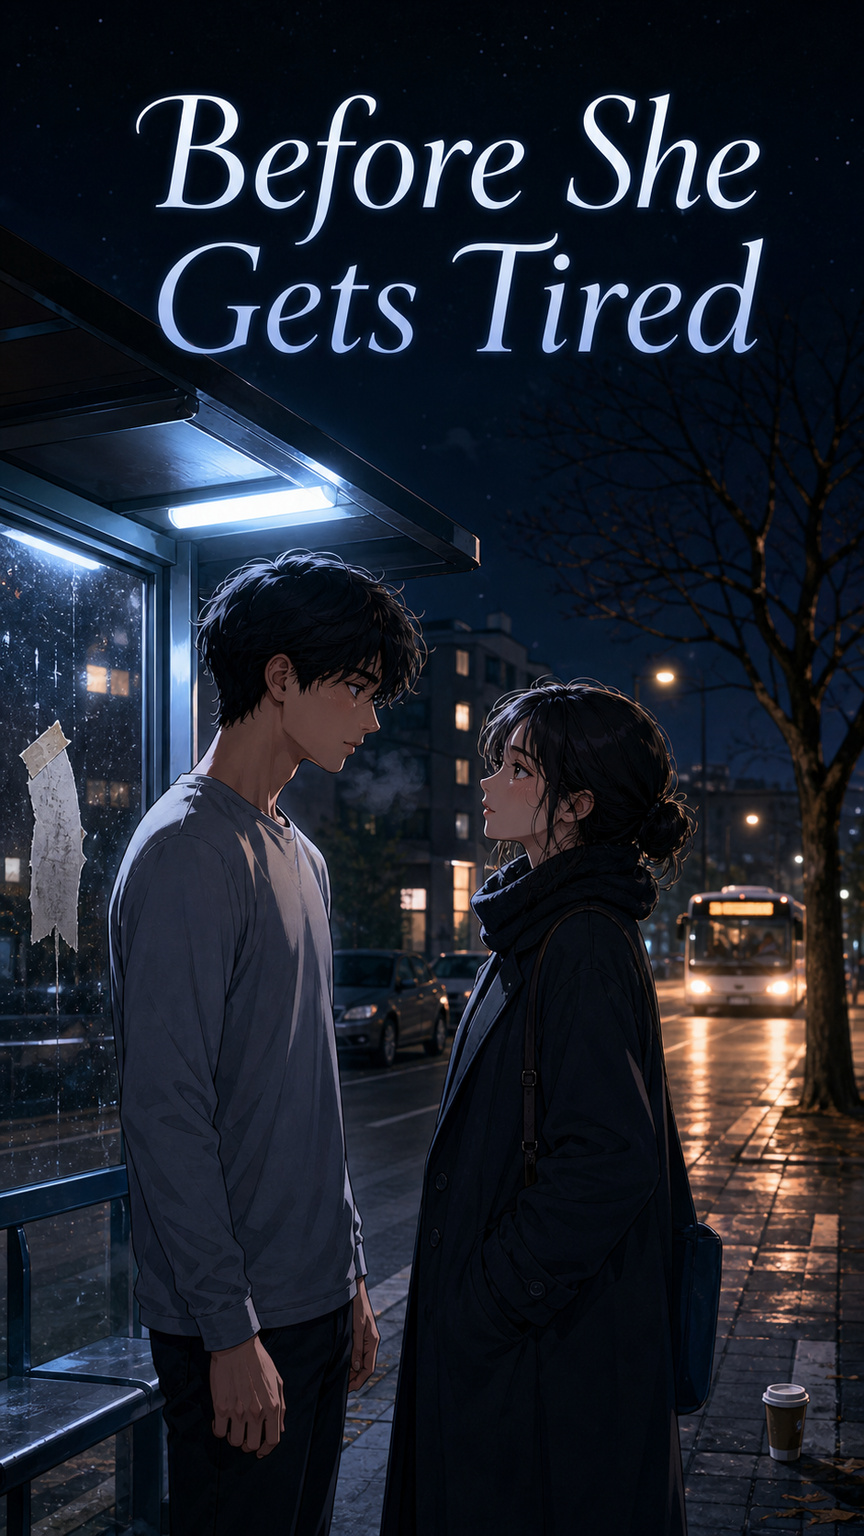
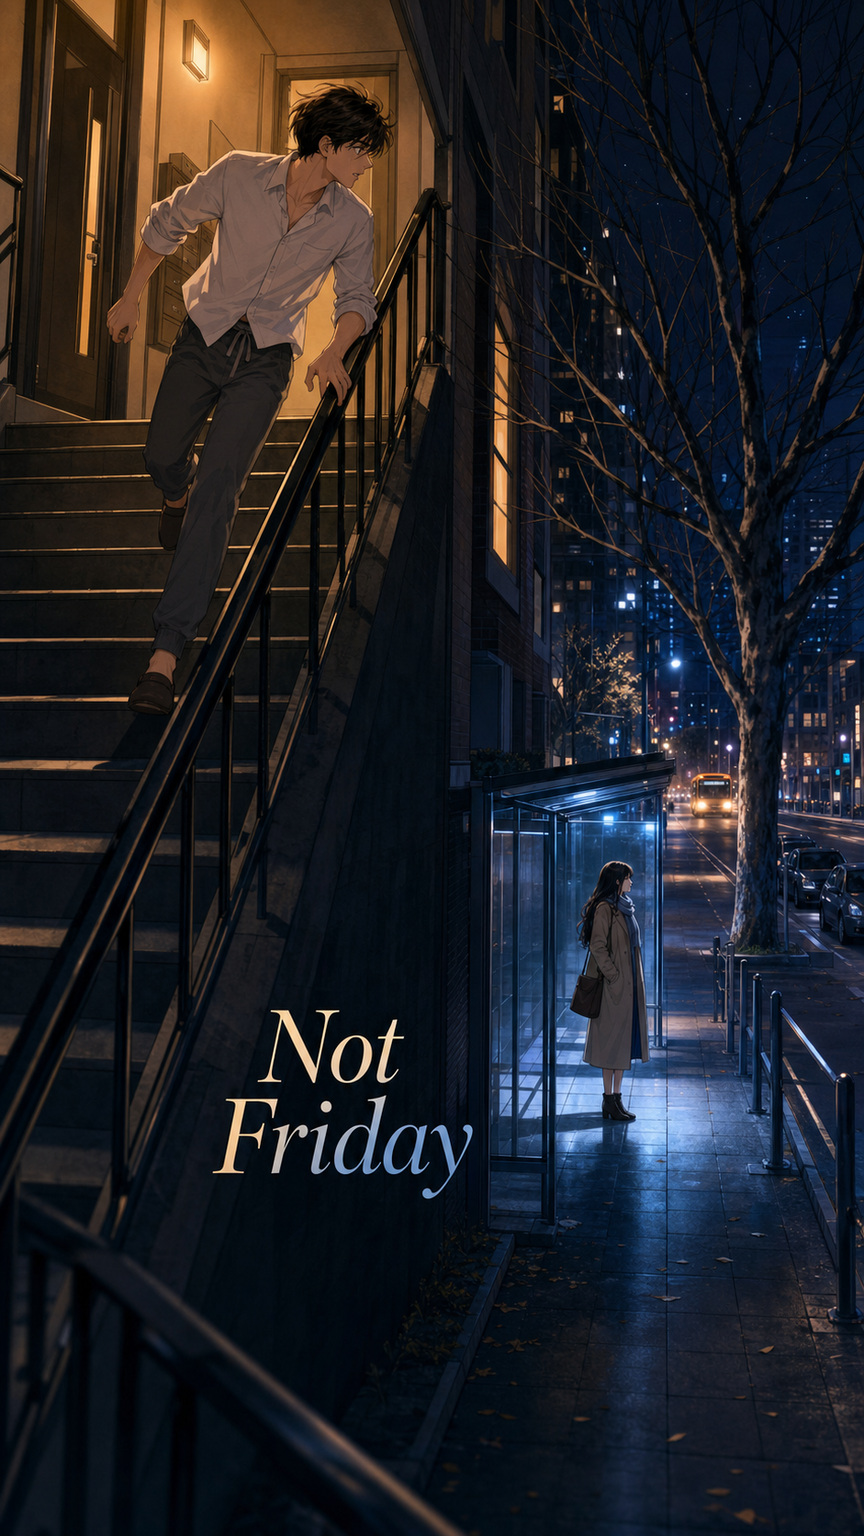
Retitle story as Not Friday

diff --git a/stories/before-she-gets-tired/outline.md b/stories/before-she-gets-tired/outline.md
@@ -2,7 +2,7 @@
 
 ## Story
 
-- Proposed reader-facing title: *Before She Gets Tired*.
+- Proposed reader-facing title: *Not Friday*.
 - Premise and central promise: After another weekly game night, Omar corners his close friend Kian with the prompt exchange and insists that Yasmin likes him just as the previous four women did before Kian waited them out. Kian follows Yasmin to an ordinary bus shelter intending to perform one brave ask and secure a yes. His first attempt merely renames their existing ambiguous outings, and Yasmin refuses to keep translating hints into commitments for him. Resolve the prompt when Kian stops treating Omar's confidence, past signals, and Yasmin's patience as guarantees; asks Yasmin plainly for one specific date; clarifies rather than retreats when she cannot make the proposed night; and receives a freely given yes to another time. The romantic success is real, but it rests on accepting that a clear question also permits a clear no.
 - Intended reader experience: Begin with fast, affectionate ribbing and the guilty recognition that Omar's ridiculous certainty has evidence behind it. Let Kian's walk downstairs turn comic bravado into intimate discomfort, then make the bus-shelter exchange warm, exacting, and slightly embarrassing rather than punitive. Readers should root for the yes while understanding why Yasmin is tired of the arrangement, and feel the deeper relief when Kian listens through an apparent rejection instead of fleeing from it.
 - Generating force:

diff --git a/stories/before-she-gets-tired/story.md b/stories/before-she-gets-tired/story.md
@@ -1,12 +1,12 @@
 ---
-title: "Before She Gets Tired"
+title: "Not Friday"
 slug: "before-she-gets-tired"
 created: 2026-08-12
 created-at: 2026-08-12T18:58:30-04:00
 canon: false
 ---
 
-# Before She Gets Tired
+# Not Friday
 
 The apartment door clicked shut behind Yasmin, and Omar said, “Bro, just trust me. She likes you.”
 
